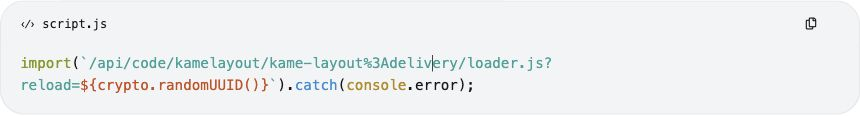
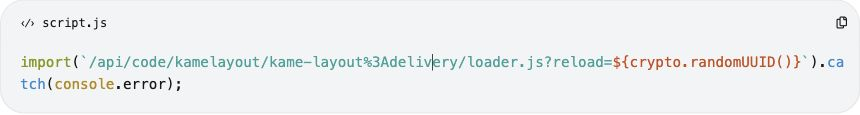
標準UserCSSの初期表示と右端の実表示を記録

diff --git a/docs/fresh-delivery.md b/docs/fresh-delivery.md
@@ -27,7 +27,7 @@ code:script.js
 
 ![標準UserScriptの入口](images/fresh-delivery-entry.jpg)
 
-画像は2026年11月17日、実際のScrapboxで撮影した入口です。コードブロック部分だけを掲載しています。
+画像は2026年11月17日、標準UserCSSへの直接同期後に、実際のScrapboxで撮影した入口です。コードブロック部分だけを掲載しています。入口の再編集はしていません。Scriptがまだ起動していない時点でも、標準UserCSSの配信バージョンと12pxのヘッダーを確認できました。起動後も後置CSSリンクは0件で、右余白12px・コピーアイコンの右端からの距離13pxを確認しています。通常の再読み込みをもう一度行っても、独自CSS・プロフィール本文が維持されました。
 
 毎回異なるURLでローダーを取得し、Scriptの入口・全補助モジュール・Scriptが読む専用CSSへ同じ配信ハッシュを付けます。同じ画面で入口が複数回importされても、イベントやメニューを重複登録しません。
 
